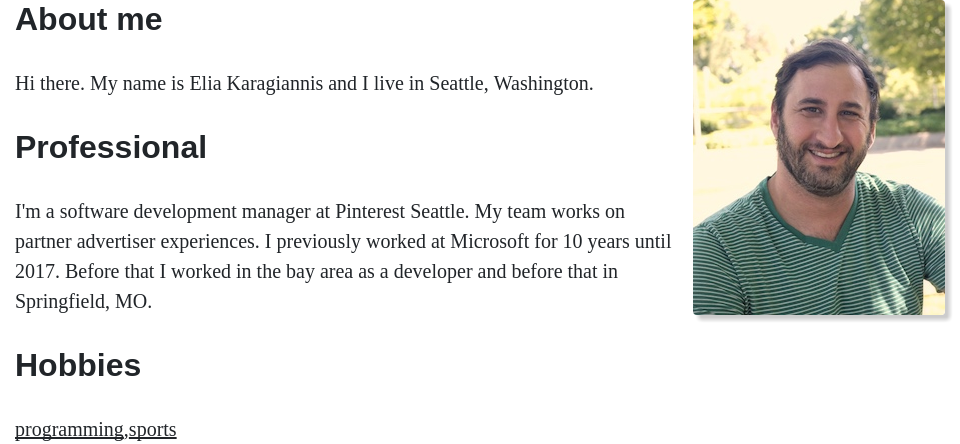
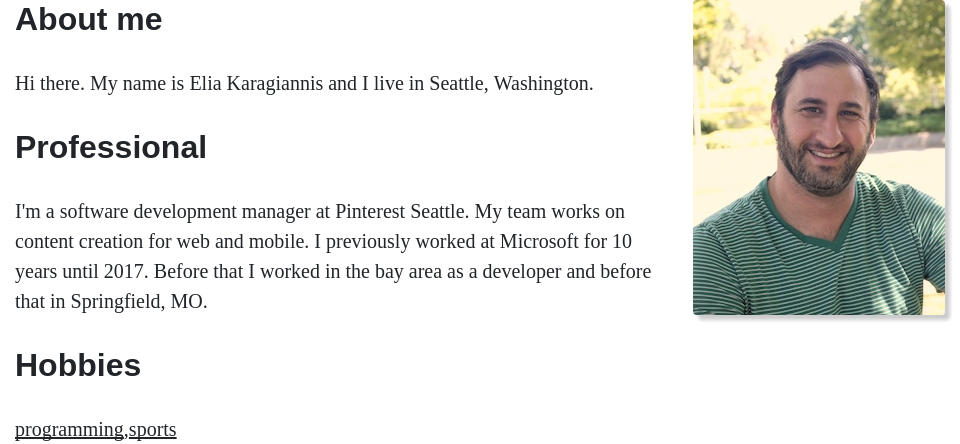
Update the about me page (#30)
* Update the about me page

* Fix failed tests

Changed region(s): [[0.0, 0.527, 0.7188, 0.7027]]

diff --git a/src/components/About.tsx b/src/components/About.tsx
@@ -10,7 +10,7 @@ function About() {
       <p>Hi there. My name is Elia Karagiannis and I live in Seattle, Washington.</p>
 
       <h2>Professional</h2>
-      <p>I'm a software development manager at Pinterest Seattle.  My team works on partner advertiser experiences.
+      <p>I'm a software development manager at Pinterest Seattle.  My team works on content creation for web and mobile.
         I previously worked at Microsoft for 10 years until 2017.
         Before that I worked in the bay area as a developer and before that in Springfield, MO.
       </p>

diff --git a/README.md b/README.md
@@ -12,7 +12,7 @@ After cloning the project run the following from the project root to run locally
 - npm install
 - npm run start:client
 - npm run start:server (from a new shell)
-- open http://localhost:3001 from the browser of your choice
+- open http://localhost:3000 from the browser of your choice
 
 To run tests run:
 - npm run test
